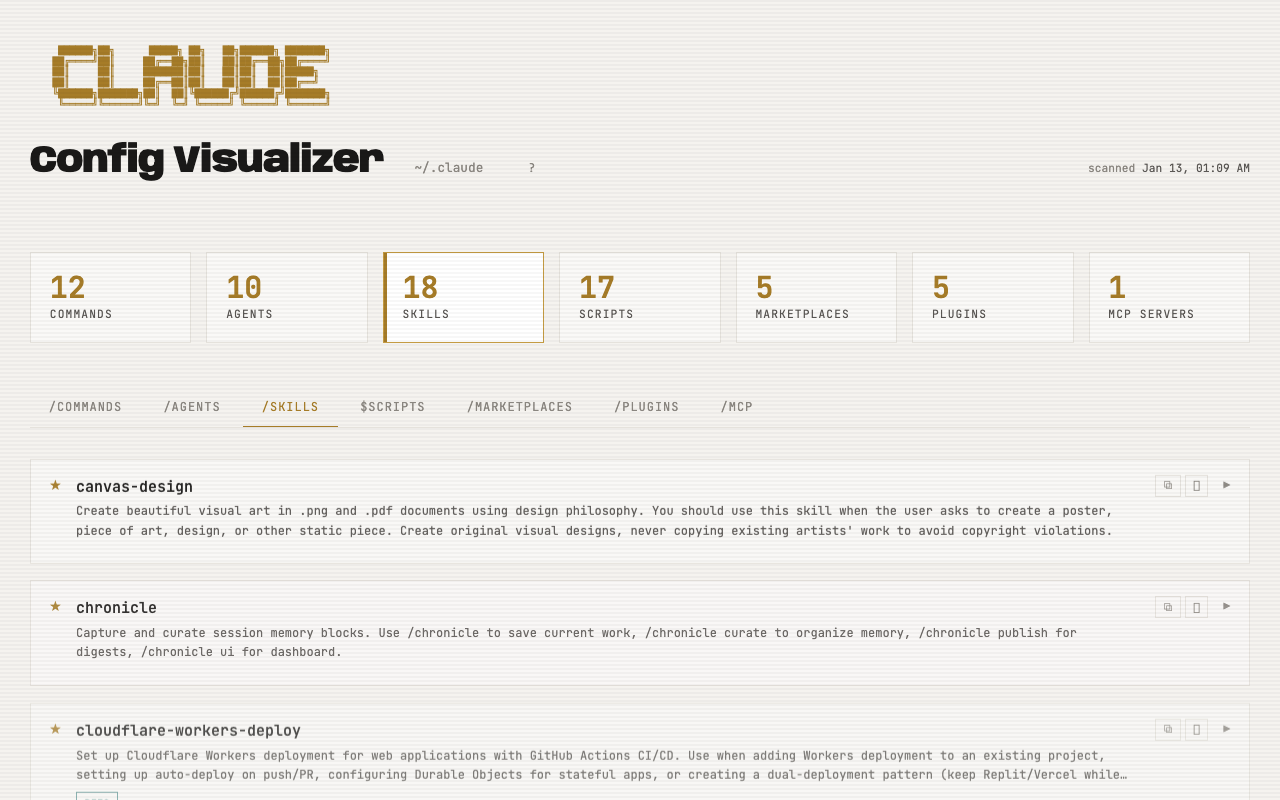
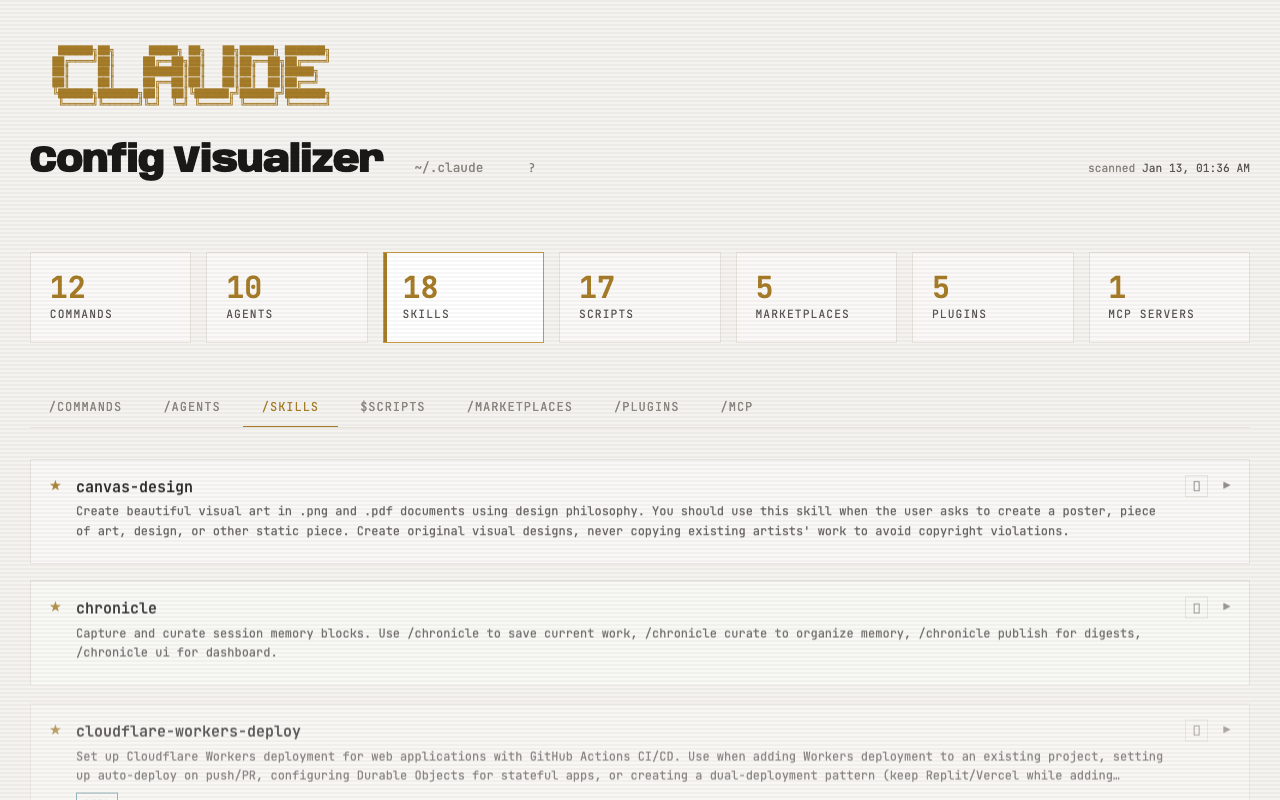
feat(webui): add hash routing, fix skill download, improve skill actions
- Add hash routing for shareable URLs (#section/card-name)
- Fix skill download to include color in frontmatter
- External skills show source link instead of download button
- Remove copy button from skills (download only)
- Browser back/forward navigation support

diff --git a/webui/index.html b/webui/index.html
@@ -739,6 +739,67 @@
       return str.slice(0, len) + '...';
     }
 
+    // Hash routing
+    let currentSection = 'commands';
+    let currentCard = null;
+
+    function parseHash() {
+      const hash = window.location.hash.slice(1);
+      if (!hash) return { section: 'commands', card: null };
+      const [section, ...cardParts] = hash.split('/');
+      const card = cardParts.length ? decodeURIComponent(cardParts.join('/')) : null;
+      return { section: section || 'commands', card };
+    }
+
+    function updateHash(section, card = null) {
+      const hash = card ? `${section}/${encodeURIComponent(card)}` : section;
+      if (window.location.hash !== `#${hash}`) {
+        history.pushState(null, '', `#${hash}`);
+      }
+    }
+
+    function navigateToHash() {
+      const { section, card } = parseHash();
+      const validSections = ['commands', 'agents', 'skills', 'scripts', 'marketplaces', 'plugins', 'mcp'];
+      const targetSection = validSections.includes(section) ? section : 'commands';
+
+      // Update UI
+      document.querySelectorAll('.tab').forEach(t => t.classList.remove('active'));
+      document.querySelector(`.tab[data-section="${targetSection}"]`)?.classList.add('active');
+      document.querySelectorAll('.stat').forEach(s => s.classList.remove('active'));
+      document.querySelector(`.stat[data-section="${targetSection}"]`)?.classList.add('active');
+
+      currentSection = targetSection;
+      currentCard = card;
+      renderSection(targetSection);
+
+      // Expand card if specified
+      if (card) {
+        setTimeout(() => {
+          const cardEl = document.querySelector(`.card[data-name="${CSS.escape(card)}"]`);
+          if (cardEl) {
+            cardEl.classList.add('expanded');
+            cardEl.scrollIntoView({ behavior: 'smooth', block: 'center' });
+          }
+        }, 50);
+      }
+    }
+
+    function toggleCard(cardEl) {
+      const wasExpanded = cardEl.classList.contains('expanded');
+      const cardName = cardEl.dataset.name;
+
+      // Collapse all other cards
+      document.querySelectorAll('.card.expanded').forEach(c => c.classList.remove('expanded'));
+
+      if (!wasExpanded) {
+        cardEl.classList.add('expanded');
+        updateHash(currentSection, cardName);
+      } else {
+        updateHash(currentSection);
+      }
+    }
+
     async function copyToClipboard(text, btn) {
       await navigator.clipboard.writeText(text);
       const orig = btn.textContent;
@@ -765,7 +826,7 @@
       zip.file('SKILL.md', `---
 name: ${skill.name}
 description: ${skill.description}
-${skill.model ? `model: ${skill.model}\n` : ''}${skill.license ? `license: ${skill.license}\n` : ''}${skill.author ? `author: ${skill.author}\n` : ''}${skill.source ? `source: ${skill.source}\n` : ''}---
+${skill.model ? `model: ${skill.model}\n` : ''}${skill.color ? `color: ${skill.color}\n` : ''}${skill.license ? `license: ${skill.license}\n` : ''}${skill.author ? `author: ${skill.author}\n` : ''}${skill.source ? `source: ${skill.source}\n` : ''}---
 
 ${skill.content}`);
 
@@ -808,8 +869,6 @@ ${skill.content}`);
       document.getElementById('count-marketplaces').textContent = data.marketplaces.length;
       document.getElementById('count-plugins').textContent = data.installedPlugins.length;
       document.getElementById('count-mcp').textContent = data.mcpServers.length;
-
-      renderSection('commands');
     }
 
     function renderSection(section) {
@@ -854,8 +913,8 @@ ${skill.content}`);
       }
 
       return `<div class="cards">${data.commands.map((cmd, i) => `
-        <article class="card" data-idx="${i}">
-          <div class="card-header" onclick="this.parentElement.classList.toggle('expanded')">
+        <article class="card" data-idx="${i}" data-name="${escapeHtml(cmd.name)}">
+          <div class="card-header" onclick="toggleCard(this.parentElement)">
             <span class="card-icon">/</span>
             <div class="card-info">
               <div class="card-name">${escapeHtml(cmd.name)}</div>
@@ -877,8 +936,8 @@ ${skill.content}`);
       }
 
       return `<div class="cards">${data.agents.map((agent, i) => `
-        <article class="card" data-idx="${i}">
-          <div class="card-header" onclick="this.parentElement.classList.toggle('expanded')">
+        <article class="card" data-idx="${i}" data-name="${escapeHtml(agent.name)}">
+          <div class="card-header" onclick="toggleCard(this.parentElement)">
             <span class="card-icon">◎</span>
             <div class="card-info">
               <div class="card-name">${escapeHtml(agent.name)}</div>
@@ -906,8 +965,8 @@ ${skill.content}`);
       }
 
       return `<div class="cards">${data.skills.map((skill, i) => `
-        <article class="card" data-idx="${i}">
-          <div class="card-header" onclick="this.parentElement.classList.toggle('expanded')">
+        <article class="card" data-idx="${i}" data-name="${escapeHtml(skill.name)}">
+          <div class="card-header" onclick="toggleCard(this.parentElement)">
             <span class="card-icon">★</span>
             <div class="card-info">
               <div class="card-name">${escapeHtml(skill.name)}</div>
@@ -926,10 +985,9 @@ ${skill.content}`);
                 ${skill.license ? `<span class="tag">${escapeHtml(skill.license)}</span>` : ''}
               </div>` : ''}
             </div>
-            <div class="action-btns">
-              <button class="action-btn" onclick="event.stopPropagation(); copyToClipboard(data.skills[${i}].content, this)" title="Copy content">\u29C9</button>
-              <button class="action-btn" onclick="event.stopPropagation(); downloadSkillZip(data.skills[${i}])" title="Download .skill">\u2B73</button>
-            </div>
+${skill.isExternal && skill.source
+              ? `<a class="action-btn" href="${escapeHtml(skill.source)}" target="_blank" rel="noopener" onclick="event.stopPropagation()" title="View source">\u2197</a>`
+              : `<button class="action-btn" onclick="event.stopPropagation(); downloadSkillZip(data.skills[${i}])" title="Download .skill">\u2B73</button>`}
             <span class="card-toggle">▶</span>
           </div>
           <div class="card-body">
@@ -945,8 +1003,8 @@ ${skill.content}`);
       }
 
       return `<div class="cards">${data.scripts.map((script, i) => `
-        <article class="card script-card" data-idx="${i}">
-          <div class="card-header" onclick="this.parentElement.classList.toggle('expanded')">
+        <article class="card script-card" data-idx="${i}" data-name="${escapeHtml(script.name)}">
+          <div class="card-header" onclick="toggleCard(this.parentElement)">
             <span class="card-icon">$</span>
             <div class="card-info">
               <div class="card-name">${escapeHtml(script.name)}<span class="custom-badge">(custom)</span></div>
@@ -1023,8 +1081,8 @@ ${skill.content}`);
       }
 
       return `<div class="cards">${data.mcpServers.map((srv, i) => `
-        <article class="card" data-idx="${i}">
-          <div class="card-header" onclick="this.parentElement.classList.toggle('expanded')">
+        <article class="card" data-idx="${i}" data-name="${escapeHtml(srv.name)}">
+          <div class="card-header" onclick="toggleCard(this.parentElement)">
             <span class="card-icon">⚡</span>
             <div class="card-info">
               <div class="card-name">
@@ -1050,17 +1108,8 @@ ${skill.content}`);
     // Tab navigation
     document.getElementById('tabs').addEventListener('click', (e) => {
       if (e.target.classList.contains('tab')) {
-        const section = e.target.dataset.section;
-
-        // Update tabs
-        document.querySelectorAll('.tab').forEach(t => t.classList.remove('active'));
-        e.target.classList.add('active');
-
-        // Update stats
-        document.querySelectorAll('.stat').forEach(s => s.classList.remove('active'));
-        document.querySelector(`.stat[data-section="${section}"]`)?.classList.add('active');
-
-        renderSection(section);
+        updateHash(e.target.dataset.section);
+        navigateToHash();
       }
     });
 
@@ -1068,22 +1117,18 @@ ${skill.content}`);
     document.getElementById('stats').addEventListener('click', (e) => {
       const stat = e.target.closest('.stat');
       if (stat) {
-        const section = stat.dataset.section;
-
-        // Update stats
-        document.querySelectorAll('.stat').forEach(s => s.classList.remove('active'));
-        stat.classList.add('active');
-
-        // Update tabs
-        document.querySelectorAll('.tab').forEach(t => t.classList.remove('active'));
-        document.querySelector(`.tab[data-section="${section}"]`)?.classList.add('active');
-
-        renderSection(section);
+        updateHash(stat.dataset.section);
+        navigateToHash();
       }
     });
 
-    // Load data on init
-    loadData();
+    // Handle browser back/forward
+    window.addEventListener('popstate', navigateToHash);
+
+    // Load data on init, then navigate to hash
+    loadData().then(() => {
+      navigateToHash();
+    });
   </script>
 </body>
 </html>
